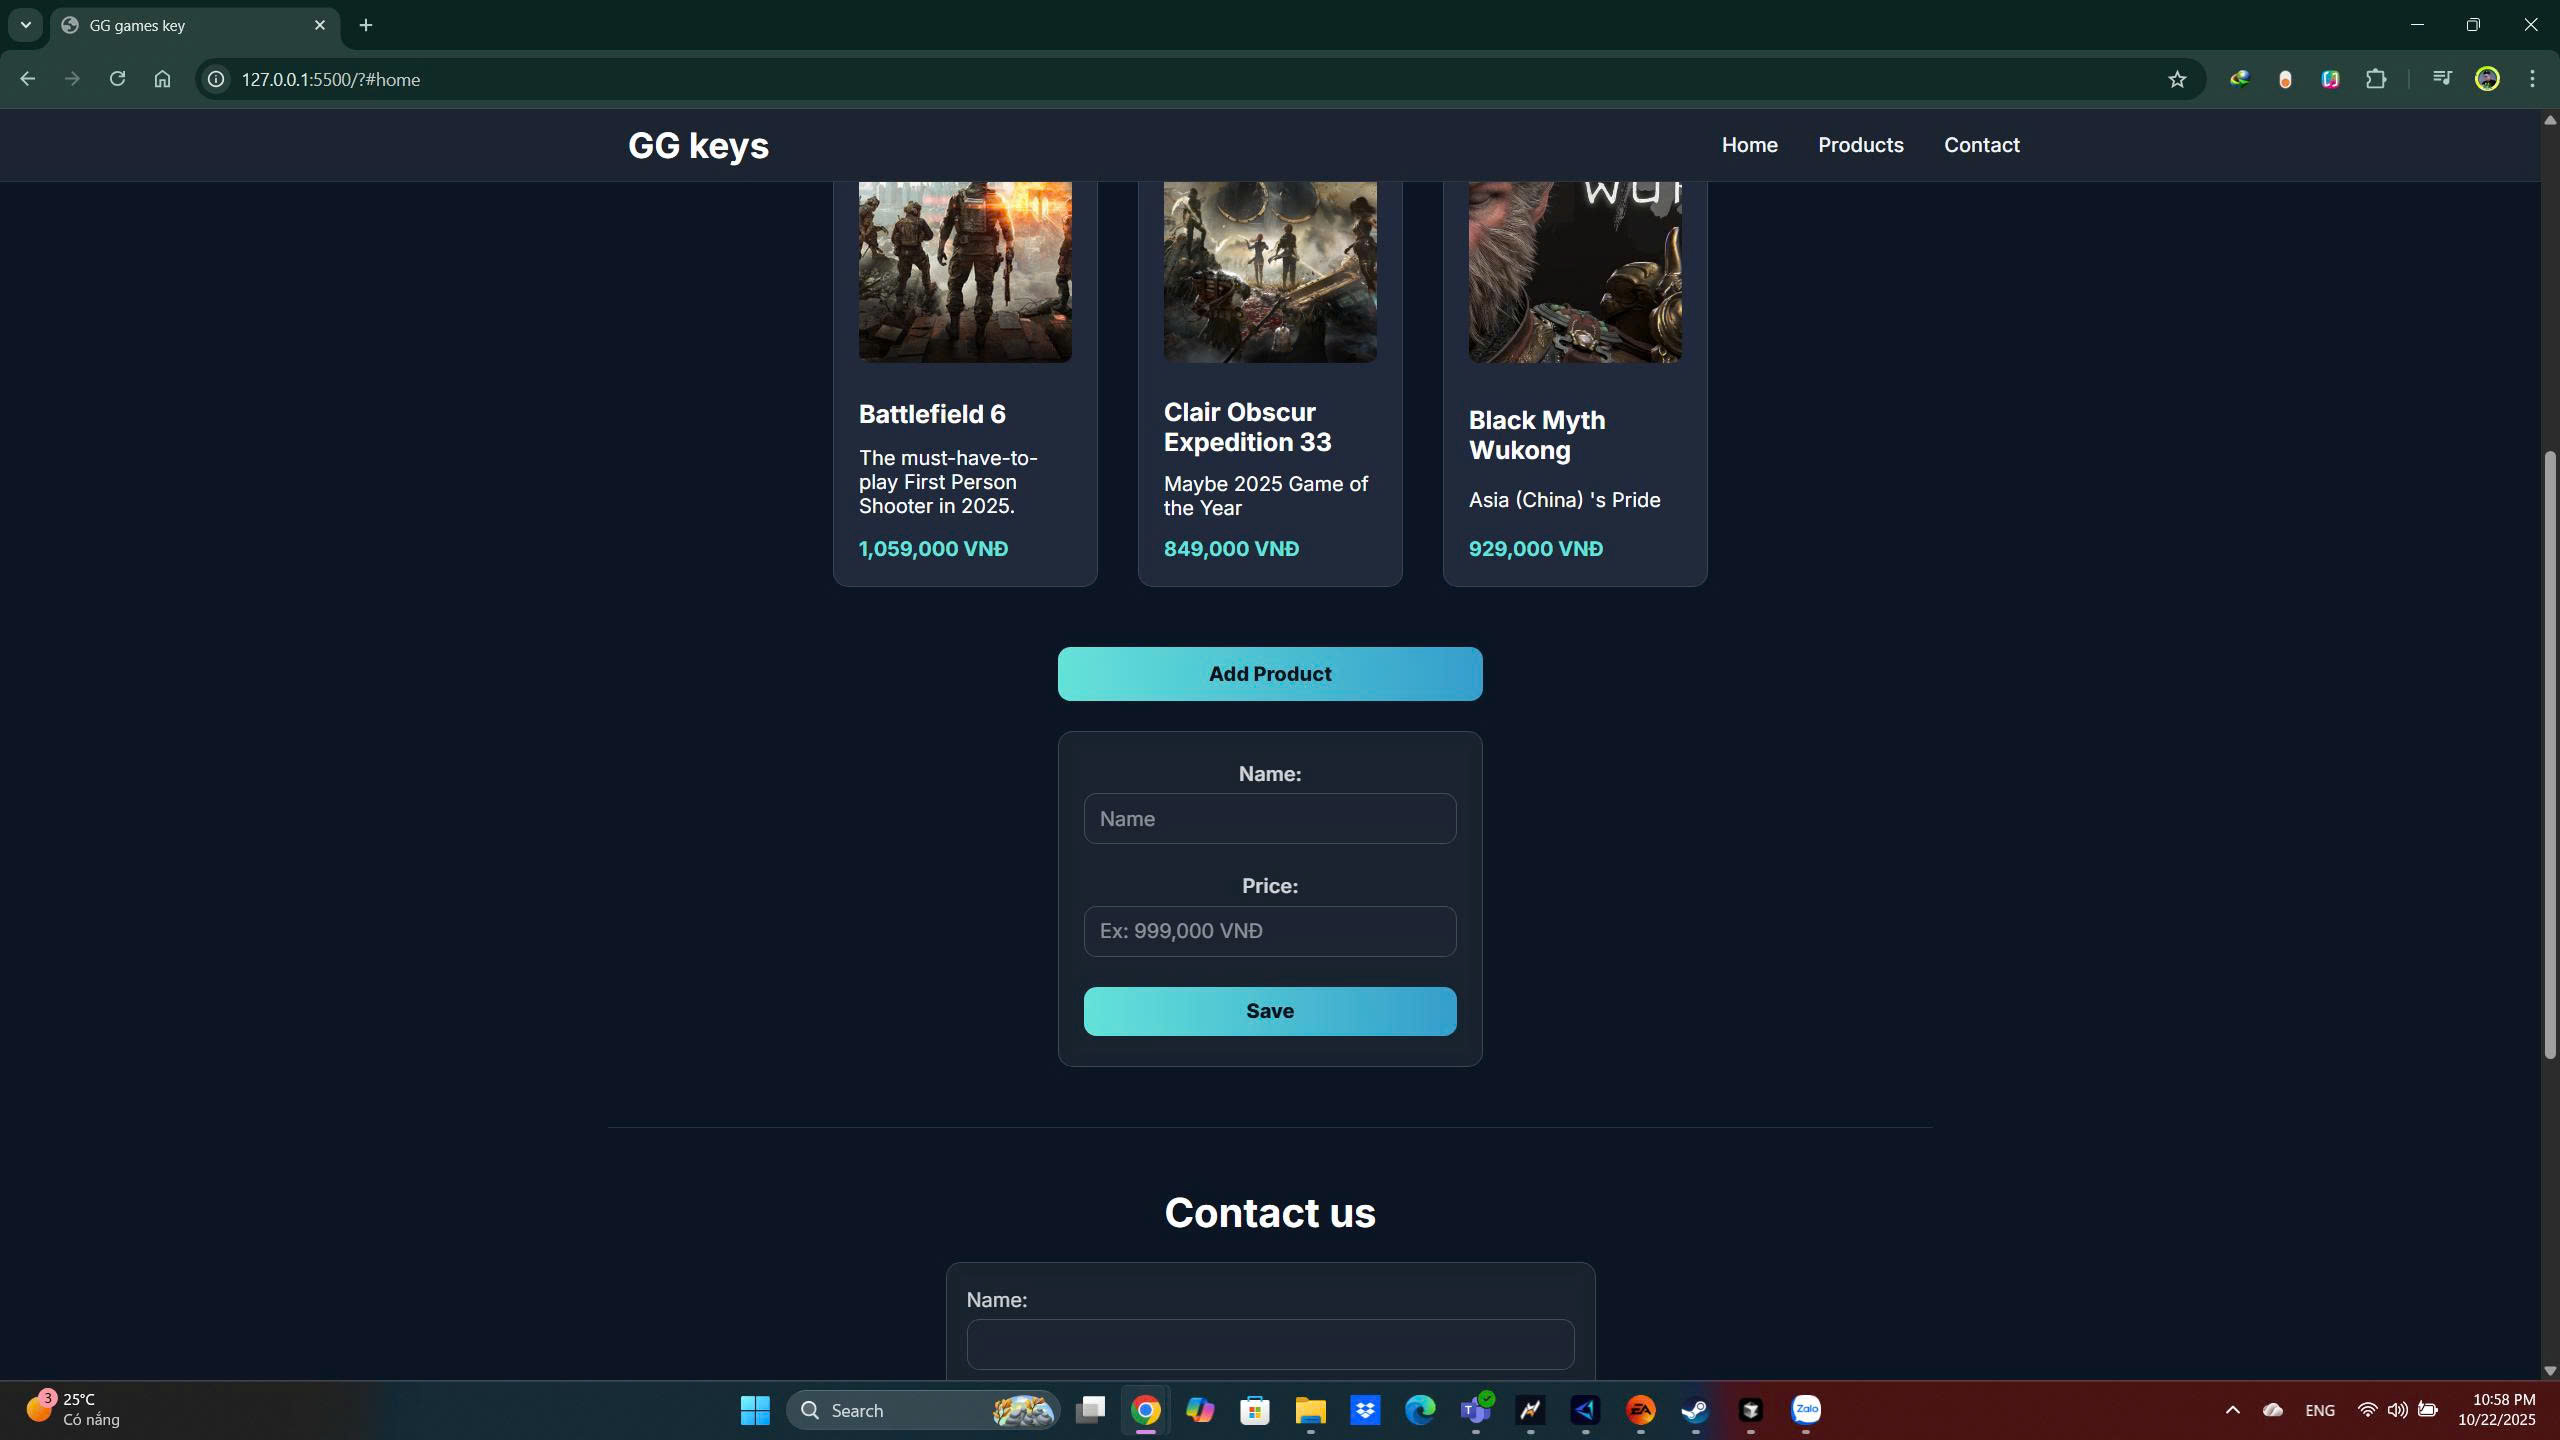
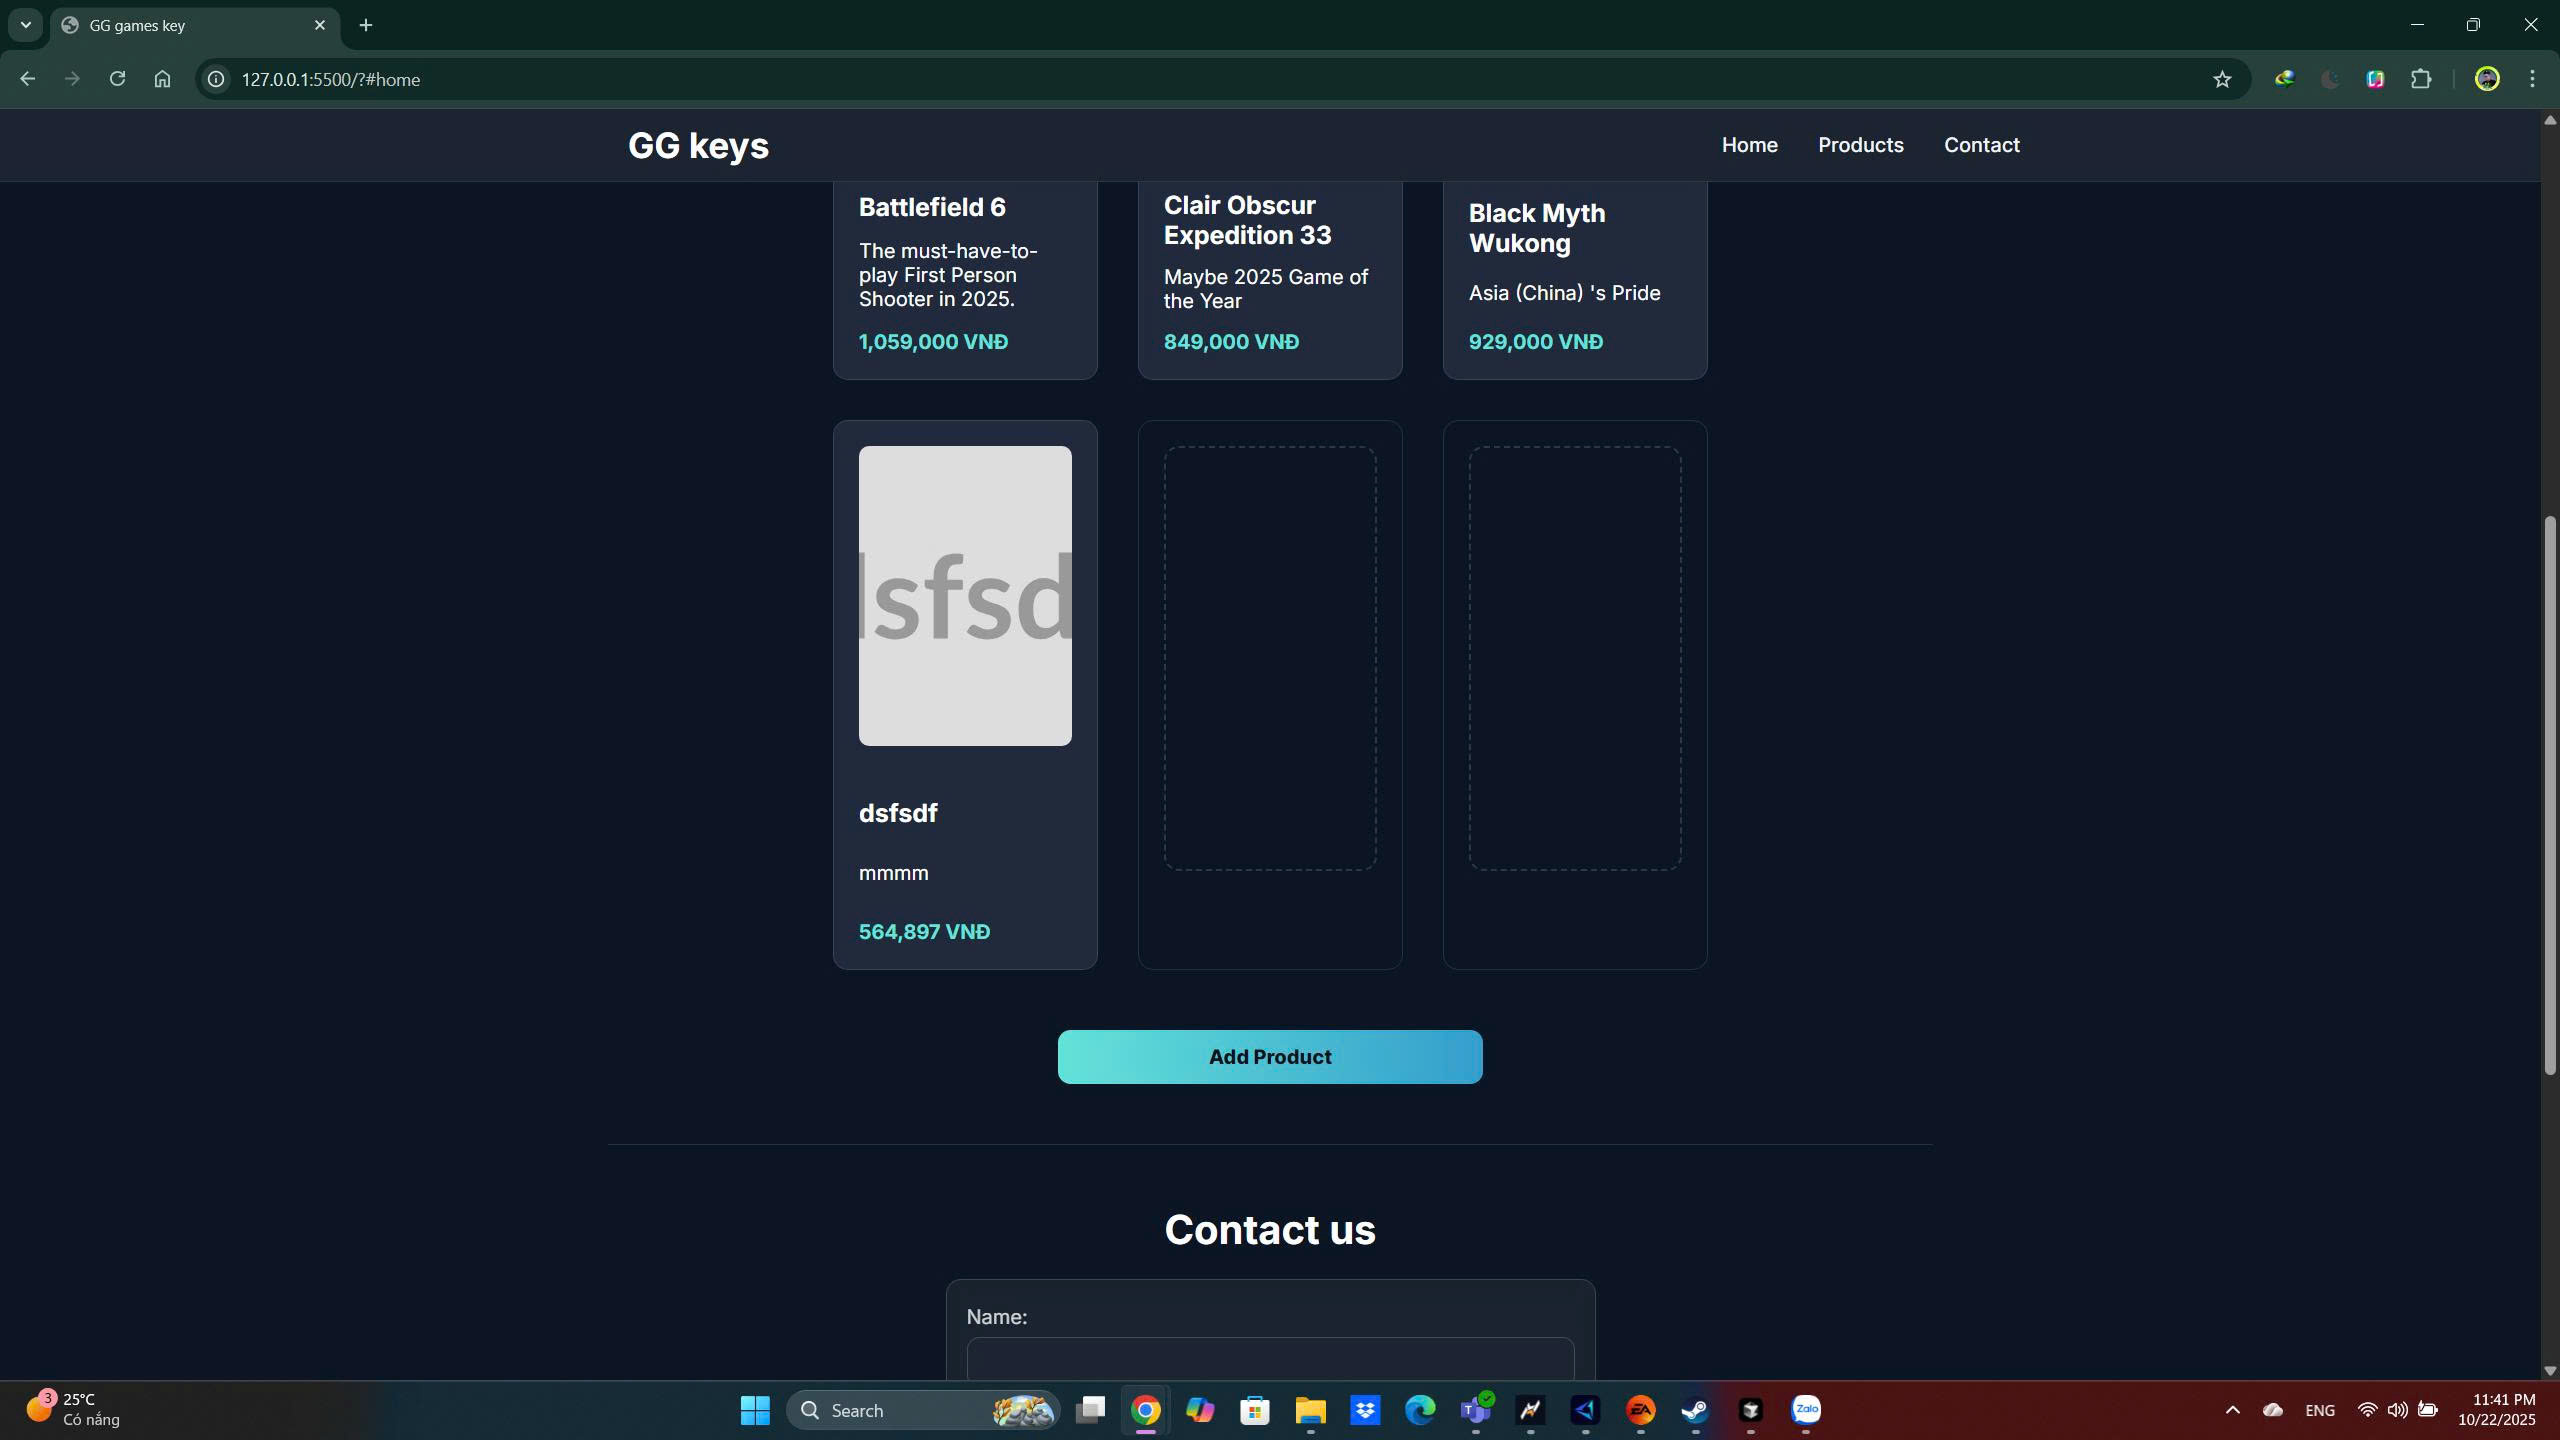
Task-4 demo update

diff --git a/script.js b/script.js
@@ -1,3 +1,4 @@
+
 /* Biến DOM cần dùng */
    const searchInput = document.getElementById("searchInput");   // Ô nhập từ khóa tìm kiếm
    const searchBtn = document.getElementById("searchBtn");       // Nút "Tìm"
@@ -5,30 +6,32 @@
    const addProductForm = document.getElementById("addProductForm"); // Form thêm sản phẩm
    const productList = document.querySelectorAll(".product");    // Danh sách tất cả sản phẩm
    
-   /* Xử lý sự kiện tìm kiếm*/
-   searchBtn.addEventListener("click", function () {
-       const keyword = searchInput.value.trim().toLowerCase(); // Lấy giá trị nhập vào và chuyển về chữ thường
-   
-       // Duyệt qua từng sản phẩm trong danh sách
-       productList.forEach(function (product) {
-           const name = product.querySelector("h3").innerText.toLowerCase(); // Lấy tên sản phẩm
-   
-           // So sánh tên sản phẩm với từ khóa tìm kiếm
-           if (name.includes(keyword) || keyword === "") {
-               product.style.display = ""; // Hiện lại nếu trùng hoặc từ khóa rỗng
-           } else {
-               product.style.display = "none"; // Ẩn nếu không trùng
-           }
-       });
-   });
-   
-   /* Cho phép nhấn enter để tìm*/
-   searchInput.addEventListener("keyup", function (event) {
-       if (event.key === "Enter") {
-           searchBtn.click(); // Kích hoạt hành động nút "Tìm"
-       }
-   });
-   
+/* Xử lý sự kiện tìm kiếm */
+searchBtn.addEventListener("click", function () {
+    const keyword = searchInput.value.trim().toLowerCase(); // Lấy từ khóa tìm kiếm
+
+    // ⚠ Lấy lại danh sách sản phẩm mỗi lần tìm, để bao gồm cả sản phẩm mới thêm
+    const allProducts = document.querySelectorAll(".product:not(.blank)");
+
+    // Duyệt qua từng sản phẩm và kiểm tra tên
+    allProducts.forEach(function (product) {
+        const name = product.querySelector("h3")?.innerText.toLowerCase() || "";
+
+        // So sánh với từ khóa
+        if (name.includes(keyword) || keyword === "") {
+            product.style.display = ""; // Hiện nếu trùng
+        } else {
+            product.style.display = "none"; // Ẩn nếu không trùng
+        }
+    });
+});
+
+/* Cho phép nhấn Enter để tìm */
+searchInput.addEventListener("keyup", function (event) {
+    if (event.key === "Enter") {
+        searchBtn.click();
+    }
+});
    /* Xử lý hiển thị form thêm sản phẩm */
    addProductBtn.addEventListener("click", function () {
        // Nếu form đang ẩn thì hiện lên, ngược lại thì ẩn đi
@@ -38,4 +41,105 @@
            addProductForm.style.display = "none";
        }
    });
+
+/* Tính năng thêm */
+
+   function getProductRows() {
+    // Hàng hợp lệ = .grid-container có .col8 chứa .product-list
+    return Array.from(document.querySelectorAll('#products .grid-container'))
+      .filter(row => row.querySelector(':scope > .col8 .product-list'));
+  }
+  
+  /* Lấy product-list đầu tiên (hàng mẫu) và class card mẫu */
+  function getTemplates() {
+    const rows = getProductRows();
+    const baseRow = rows[0];                                         // hàng mẫu
+    if (!baseRow) return null;
+  
+    const baseList = baseRow.querySelector(':scope > .col8 .product-list');
+    const sampleCard = baseList.querySelector('.product');           // card mẫu
+    const productClass = sampleCard ? sampleCard.className : 'product col4';
+  
+    // clone hàng mẫu, rồi rút ruột product-list để dùng làm row mới
+    const newRow = baseRow.cloneNode(true);
+    const newList = newRow.querySelector(':scope > .col8 .product-list');
+    while (newList.firstChild) newList.removeChild(newList.firstChild);
+  
+    return { baseRow, productClass, newRow, newList };
+  }
+  
+  /* Tạo card sản phẩm mới từ class mẫu */
+  function createProductCard(productClass, name, priceNumber, desc) {
+    const card = document.createElement('article');
+    card.className = productClass;                       // ví dụ "product col4"
+    card.innerHTML = `
+      <img class="product-image"
+           src="https://placehold.co/616x353?text=${encodeURIComponent(name)}"
+           alt="${name}">
+      <h3 class="title-3">${name}</h3>
+      <p class="text">${desc || 'New product added manually.'}</p>
+      <p class="price">${Number(priceNumber).toLocaleString('en-US')} VNĐ</p>
+    `;
+    return card;
+  }
+  
+  /* Tạo article trắng giữ chỗ (đúng class mẫu + thêm .blank) */
+  function createBlank(productClass) {
+    const blank = document.createElement('article');
+    blank.className = productClass + ' blank';
+    blank.innerHTML = `<div class="product-placeholder"></div>`;
+    return blank;
+  }
+  
+  /* ===== Submit form: validate + chèn đúng chỗ, đúng class ===== */
+  addProductForm.addEventListener('submit', function (e) {
+    e.preventDefault();
+  
+    const name = document.getElementById('newName')?.value.trim() || '';
+    const priceRaw = document.getElementById('newPrice')?.value.trim() || '';
+    const desc = document.getElementById('newDesc')?.value.trim() || '';
+  
+    if (!name || !priceRaw) { alert('Please enter both product name and price!'); return; }
+    const priceNumber = Number(priceRaw.replace(/[^\d]/g, ''));
+    if (isNaN(priceNumber) || priceNumber <= 0) { alert('Price must be a valid number greater than 0!'); return; }
+  
+    const tpl = getTemplates();
+    if (!tpl) { console.error('Cannot find products template'); return; }
+  
+    const { productClass } = tpl;
+    const card = createProductCard(productClass, name, priceNumber, desc);
+  
+    // Xác định hàng cuối hợp lệ trong #products
+    const rows = getProductRows();
+    const lastRow = rows[rows.length - 1];
+    const lastList = lastRow.querySelector(':scope > .col8 .product-list');
+  
+    // Có .blank -> thay thế cái đầu tiên
+    const blanks = lastList.querySelectorAll('article.blank');
+    if (blanks.length) {
+      blanks[0].replaceWith(card);
+    } else {
+      const count = lastList.querySelectorAll('.product').length;
+  
+      //Đủ 3 thì tạo hàng mới bằng cách clone hàng mẫu
+      if (count >= 3) {
+        const { newRow, newList } = getTemplates(); // clone tươi mới mỗi lần để giữ class
+        newList.appendChild(card);
+        newList.appendChild(createBlank(productClass));
+        newList.appendChild(createBlank(productClass));
+        // chèn NGAY SAU hàng cuối
+        lastRow.insertAdjacentElement('afterend', newRow);
+      } else {
+        // Chưa đủ 3 -> append vào và bổ sung blank cho đủ
+        lastList.appendChild(card);
+        const after = lastList.querySelectorAll('.product').length;
+        for (let i = after; i < 3; i++) {
+          lastList.appendChild(createBlank(productClass));
+        }
+      }
+    }
+  
+    addProductForm.reset();
+    addProductForm.style.display = 'none';
+  });
    

diff --git a/index.html b/index.html
@@ -72,32 +72,32 @@
             <!-- Danh sách sản phẩm -->
             <div class="grid-container">
                 <div class="col2"></div>
-                <div class="col8">
+                <div class="prod-row col8">
                     <div class="product-list grid-container">
-                <!-- Mỗi sản phẩm được trình bày trong 1 <article> riêng -->
-                <article class="product">
-                    <!-- Ảnh minh hoạ (mock) cho sản phẩm -->
-                    <img class="product-image" src="https://shared.akamai.steamstatic.com/store_item_assets/steam/apps/2807960/a9052c33c3bc80dc8f55fbfb3d18a62d6d762b2a/capsule_616x353.jpg?t=1760108538" alt="Battlefield 6 cover" />
-                    <h3 class="title-3">Battlefield 6</h3>
-                    <p class="text">The must-have-to-play First Person Shooter in 2025.</p>
-                    <p class="price">1,059,000 VNĐ</p>
-                </article>
+                        <!-- Mỗi sản phẩm được trình bày trong 1 <article> riêng -->
+                        <article class="product">
+                            <!-- Ảnh minh hoạ (mock) cho sản phẩm -->
+                            <img class="product-image" src="https://shared.akamai.steamstatic.com/store_item_assets/steam/apps/2807960/a9052c33c3bc80dc8f55fbfb3d18a62d6d762b2a/capsule_616x353.jpg?t=1760108538" alt="Battlefield 6 cover" />
+                            <h3 class="title-3">Battlefield 6</h3>
+                            <p class="text">The must-have-to-play First Person Shooter in 2025.</p>
+                            <p class="price">1,059,000 VNĐ</p>
+                        </article>
 
-                <article class="product">
-                    <!-- Ảnh minh hoạ (mock) cho sản phẩm -->
-                    <img class="product-image" src="https://cdn1.epicgames.com/spt-assets/330dace5ffc74156987f91d454ac544b/project-w-1kt2x.jpg" alt="Clair 33 cover" />
-                    <h3 class="title-3">Clair Obscur Expedition 33</h3>
-                    <p class="text">Maybe 2025 Game of the Year</p>
-                    <p class="price">849,000 VNĐ</p>
-                </article>
+                        <article class="product">
+                            <!-- Ảnh minh hoạ (mock) cho sản phẩm -->
+                            <img class="product-image" src="https://cdn1.epicgames.com/spt-assets/330dace5ffc74156987f91d454ac544b/project-w-1kt2x.jpg" alt="Clair 33 cover" />
+                            <h3 class="title-3">Clair Obscur Expedition 33</h3>
+                            <p class="text">Maybe 2025 Game of the Year</p>
+                            <p class="price">849,000 VNĐ</p>
+                        </article>
 
-                <article class="product">
-                    <!-- Ảnh minh hoạ (mock) cho sản phẩm -->
-                    <img class="product-image" src="https://gaming-cdn.com/images/products/7678/orig/black-myth-wukong-pc-steam-cover.jpg?v=1755639535" alt="Black Myth Wukong cover" />
-                    <h3 class="title-3">Black Myth Wukong</h3>
-                    <p class="text">Asia (China) 's Pride</p>
-                    <p class="price">929,000 VNĐ</p>
-                </article>
+                        <article class="product">
+                            <!-- Ảnh minh hoạ (mock) cho sản phẩm -->
+                            <img class="product-image" src="https://gaming-cdn.com/images/products/7678/orig/black-myth-wukong-pc-steam-cover.jpg?v=1755639535" alt="Black Myth Wukong cover" />
+                            <h3 class="title-3">Black Myth Wukong</h3>
+                            <p class="text">Asia (China) 's Pride</p>
+                            <p class="price">929,000 VNĐ</p>
+                        </article>
                     </div>
                 </div>
                 <div class="col2"></div>
@@ -124,6 +124,10 @@
                         <div class="form-group">
                             <label for="newPrice">Price:</label>
                             <input type="text" id="newPrice" placeholder="Ex: 999,000 VNĐ" required>
+                        </div>
+                        <div class="form-group">
+                            <label for="newDesc">Description:</label>
+                            <textarea id="newDesc" rows="3" placeholder="Short description"></textarea>
                         </div>
                         <button type="submit">Save</button>
                     </form>

diff --git a/style.css b/style.css
@@ -487,3 +487,16 @@ footer {
         width: 100%;
         height: 44px;
     }
+
+    /* Article trắng để giữ bố cục 3 cột */
+.product.blank {
+    background: transparent;
+    box-shadow: none;
+  }
+  
+  .product-placeholder {
+    width: 100%;
+    height: 340px;
+    border: 2px dashed rgba(255,255,255,0.15);
+    border-radius: 12px;
+  }
